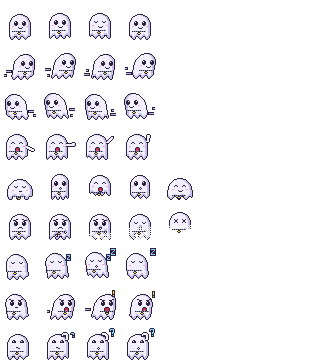
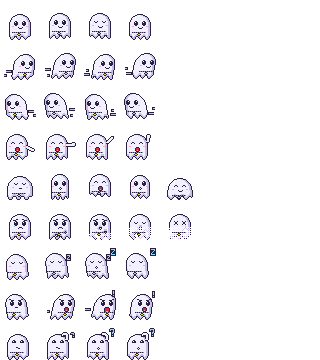
fix(arte): Fantasma — corrente abaixo da boca, chapéu com folga, failed legível
- Âncora agora sai dos olhos (olhos - 11): a corrente fica logo abaixo da boca
  aberta e o chapéu (8 linhas, cone menor) cabe com 1 px de folga em todo quadro.
- Pulo: agachado e alto do pulo menos achatados (h 22 e 21), a corrente fica no corpo.
- Failed: último quadro com a base no chão e o fim em xadrez ralo, sem corte seco.
- Teste: extra inteiro dentro do quadro (folga 1) e failed final >= 40 px.

diff --git a/herois/fantasma.py b/herois/fantasma.py
@@ -80,11 +80,11 @@ def quadro(w=20, h=24, cx=16, base=30, lean=0, fase=0.0, olhos="normal", olhar=0
     for x, y in ((bx, by), (bx + 1, by - 1), (bx, by + 1), (bx, by + 2)):
         if (x, y) in pts and g[y][x] == "G":
             g[y][x] = "L"
-    if some:   # sumindo (antes do rosto, que fica nítido): xadrez de baixo para cima (1/4, 1/2); some >= 3 apaga o fim
+    if some:   # sumindo (antes do rosto, que fica nítido): xadrez de baixo para cima (1/4, 1/2); some >= 3 deixa o fim ralo (1 em 4)
         corte = base - h * min(some, 2) // 4
         for y in range(N):
             for x in range(N):
-                if g[y][x] != "." and y > corte and ((x + y) % 2 or (some >= 3 and y > corte + 4)):
+                if g[y][x] != "." and y > corte and ((x + y) % 2 or (some >= 3 and y > corte + 4 and y % 2)):
                     g[y][x] = "."
     ey = top + max(3, int(h * 0.27))
     fx = round(cx + lean * (base - ey) / h) + olhar
@@ -113,7 +113,7 @@ def quadro(w=20, h=24, cx=16, base=30, lean=0, fase=0.0, olhos="normal", olhar=0
     for s, x, y in por:
         carimbar(g, s, x, y)
     cxt = (xs_top[0] + xs_top[-1]) // 2
-    return ["".join(l) for l in g], (cxt - 7, top - 8)
+    return ["".join(l) for l in g], (cxt - 7, ey - 11)
 
 
 def _estado(specs):
@@ -137,9 +137,9 @@ _SPECS = {
                dict(cx=13, olhos="feliz", boca="buu", fase=_F[2], por=((MAO_ALTA, 22, 8),)),
                dict(cx=13, olhos="feliz", boca="buu", fase=_F[3], por=((MAO_CIMA, 22, 6),))],
     # encolhe, dispara para cima, no alto abre os braços, desce, pousa
-    "jumping": [dict(w=24, h=19, olhos="fechado", boca="reta"),
+    "jumping": [dict(w=24, h=22, olhos="fechado", boca="reta"),
                 dict(w=16, h=24, base=30, boca="o", fase=_F[1]),
-                dict(w=20, h=19, base=26, olhos="feliz", boca="buu", fase=_F[2]),
+                dict(w=20, h=21, base=27, olhos="feliz", boca="buu", fase=_F[2]),
                 dict(w=18, h=22, base=29, boca="o", fase=_F[3]),
                 dict(w=23, h=20, olhos="feliz")],
     # triste, abre buracos no lençol e some aos poucos
@@ -148,11 +148,11 @@ _SPECS = {
                dict(olhos="triste", boca="reta", fase=_F[2], buracos=((12, 27, 2), (21, 24, 1.8), (16, 20, 1)), some=1),
                dict(olhos="fechado", boca=None, bochecha=False, fase=_F[3],
                     buracos=((12, 27, 2.5), (21, 24, 2.2), (16, 20, 1.5)), some=2),
-               dict(olhos="x", boca=None, bochecha=False, base=28, buracos=((21, 22, 2),), some=3)],
+               dict(olhos="x", boca=None, bochecha=False, base=30, buracos=((21, 22, 2),), some=3)],
     # cochila flutuando de lado, "z" subindo
     "waiting": [dict(cx=14, lean=-2, olhos="fechado", boca=None, base=30),
                 dict(cx=14, lean=-3, olhos="fechado", boca=None, base=29, fase=_F[1], por=((Z_P, 22, 6),)),
-                dict(cx=14, lean=-3, olhos="fechado", boca="o", base=28, fase=_F[2], por=((Z_P, 22, 6), (Z_G, 26, 0))),
+                dict(cx=14, lean=-3, olhos="fechado", boca="o", base=29, fase=_F[2], por=((Z_P, 22, 6), (Z_G, 26, 0))),
                 dict(cx=14, lean=-2, olhos="fechado", boca=None, base=29, fase=_F[3], por=((Z_G, 26, 0),))],
     # recua e avança de boca aberta: "Buu!"
     "running": [dict(cx=14, lean=-3, olhos="bravo", boca="reta"),
@@ -171,21 +171,19 @@ QUADROS, ANCORA = {}, {}
 for _e, _s in _SPECS.items():
     QUADROS[_e], ANCORA[_e] = _estado(_s)
 
+# chapéu: 5 linhas de cone acima da cabeça + aba (âncora = olhos - 11; no lençol alto a aba cai no topo)
 CHAPEU = [
-    "..........KK..",
-    "........KKHK..",
-    "......KKHHK...",
-    ".....KHHHHK...",
-    ".....KHYHHK...",
-    "....KHHHHHHK..",
-    "....KHHHHYHK..",
+    ".........KK...",
+    ".......KKHK...",
+    ".....KKHHYK...",
+    "....KHHYHHHK..",
     "...KHHhhhhHHK.",
     ".KKhhhhhhhhhhK",
     "KhhhhhhhhhhhhK",
     ".KKKKKKKKKKKK.",
 ]
-# correntinha no pescoço (abaixo da boca), presa pela âncora do topo da cabeça
-CORRENTE = ["." * 14] * 24 + [
+# correntinha no pescoço, logo abaixo da boca mais aberta ("buu"), presa na mesma âncora
+CORRENTE = ["." * 14] * 22 + [
     "KsKsKsKsKsKsKs",
     "......KK......",
     ".....KYYK.....",

diff --git a/tests/test_folha.py b/tests/test_folha.py
@@ -165,6 +165,26 @@ for i in (1, 2, 3):
     assert len(linhas) == 9 and all(len(l) >= 4 for l in linhas), (i, [len(l) for l in linhas])
     assert max(c[3] - c[1] for l in linhas for c in l) > 16, i
 
+
+def extra_dentro(mod, folga=0):
+    """Todo pixel do `extra` de cada estágio cai dentro do quadro (com `folga` px de margem), em todo quadro."""
+    for s in mod.ESTAGIOS[1:]:
+        ex = s["extra"]
+        for e, ancs in mod.ANCORA.items():
+            for j, (ax, ay) in enumerate(ancs):
+                for dy, lin in enumerate(ex):
+                    for dx, ch in enumerate(lin):
+                        if ch != ".":
+                            x, y = ax + dx, ay + dy
+                            assert folga <= x < 32 - folga and folga <= y < 32 - folga, (s["title"], e, j, x, y)
+
+
+import herois.fantasma as _fa
+extra_dentro(_fa, folga=1)   # chapéu com folga real até no alto do pulo
+for i in range(3):
+    ult = montar.estados(_fa, i)["failed"][-1]
+    assert sum(ch != "." for l in ult for ch in l) >= 40, i
+
 # Médico da Peste (leva 1): validar, folhas, carregador, acréscimo em todo quadro, failed visível
 def test_heroi_medico():
     import herois.medico as med
